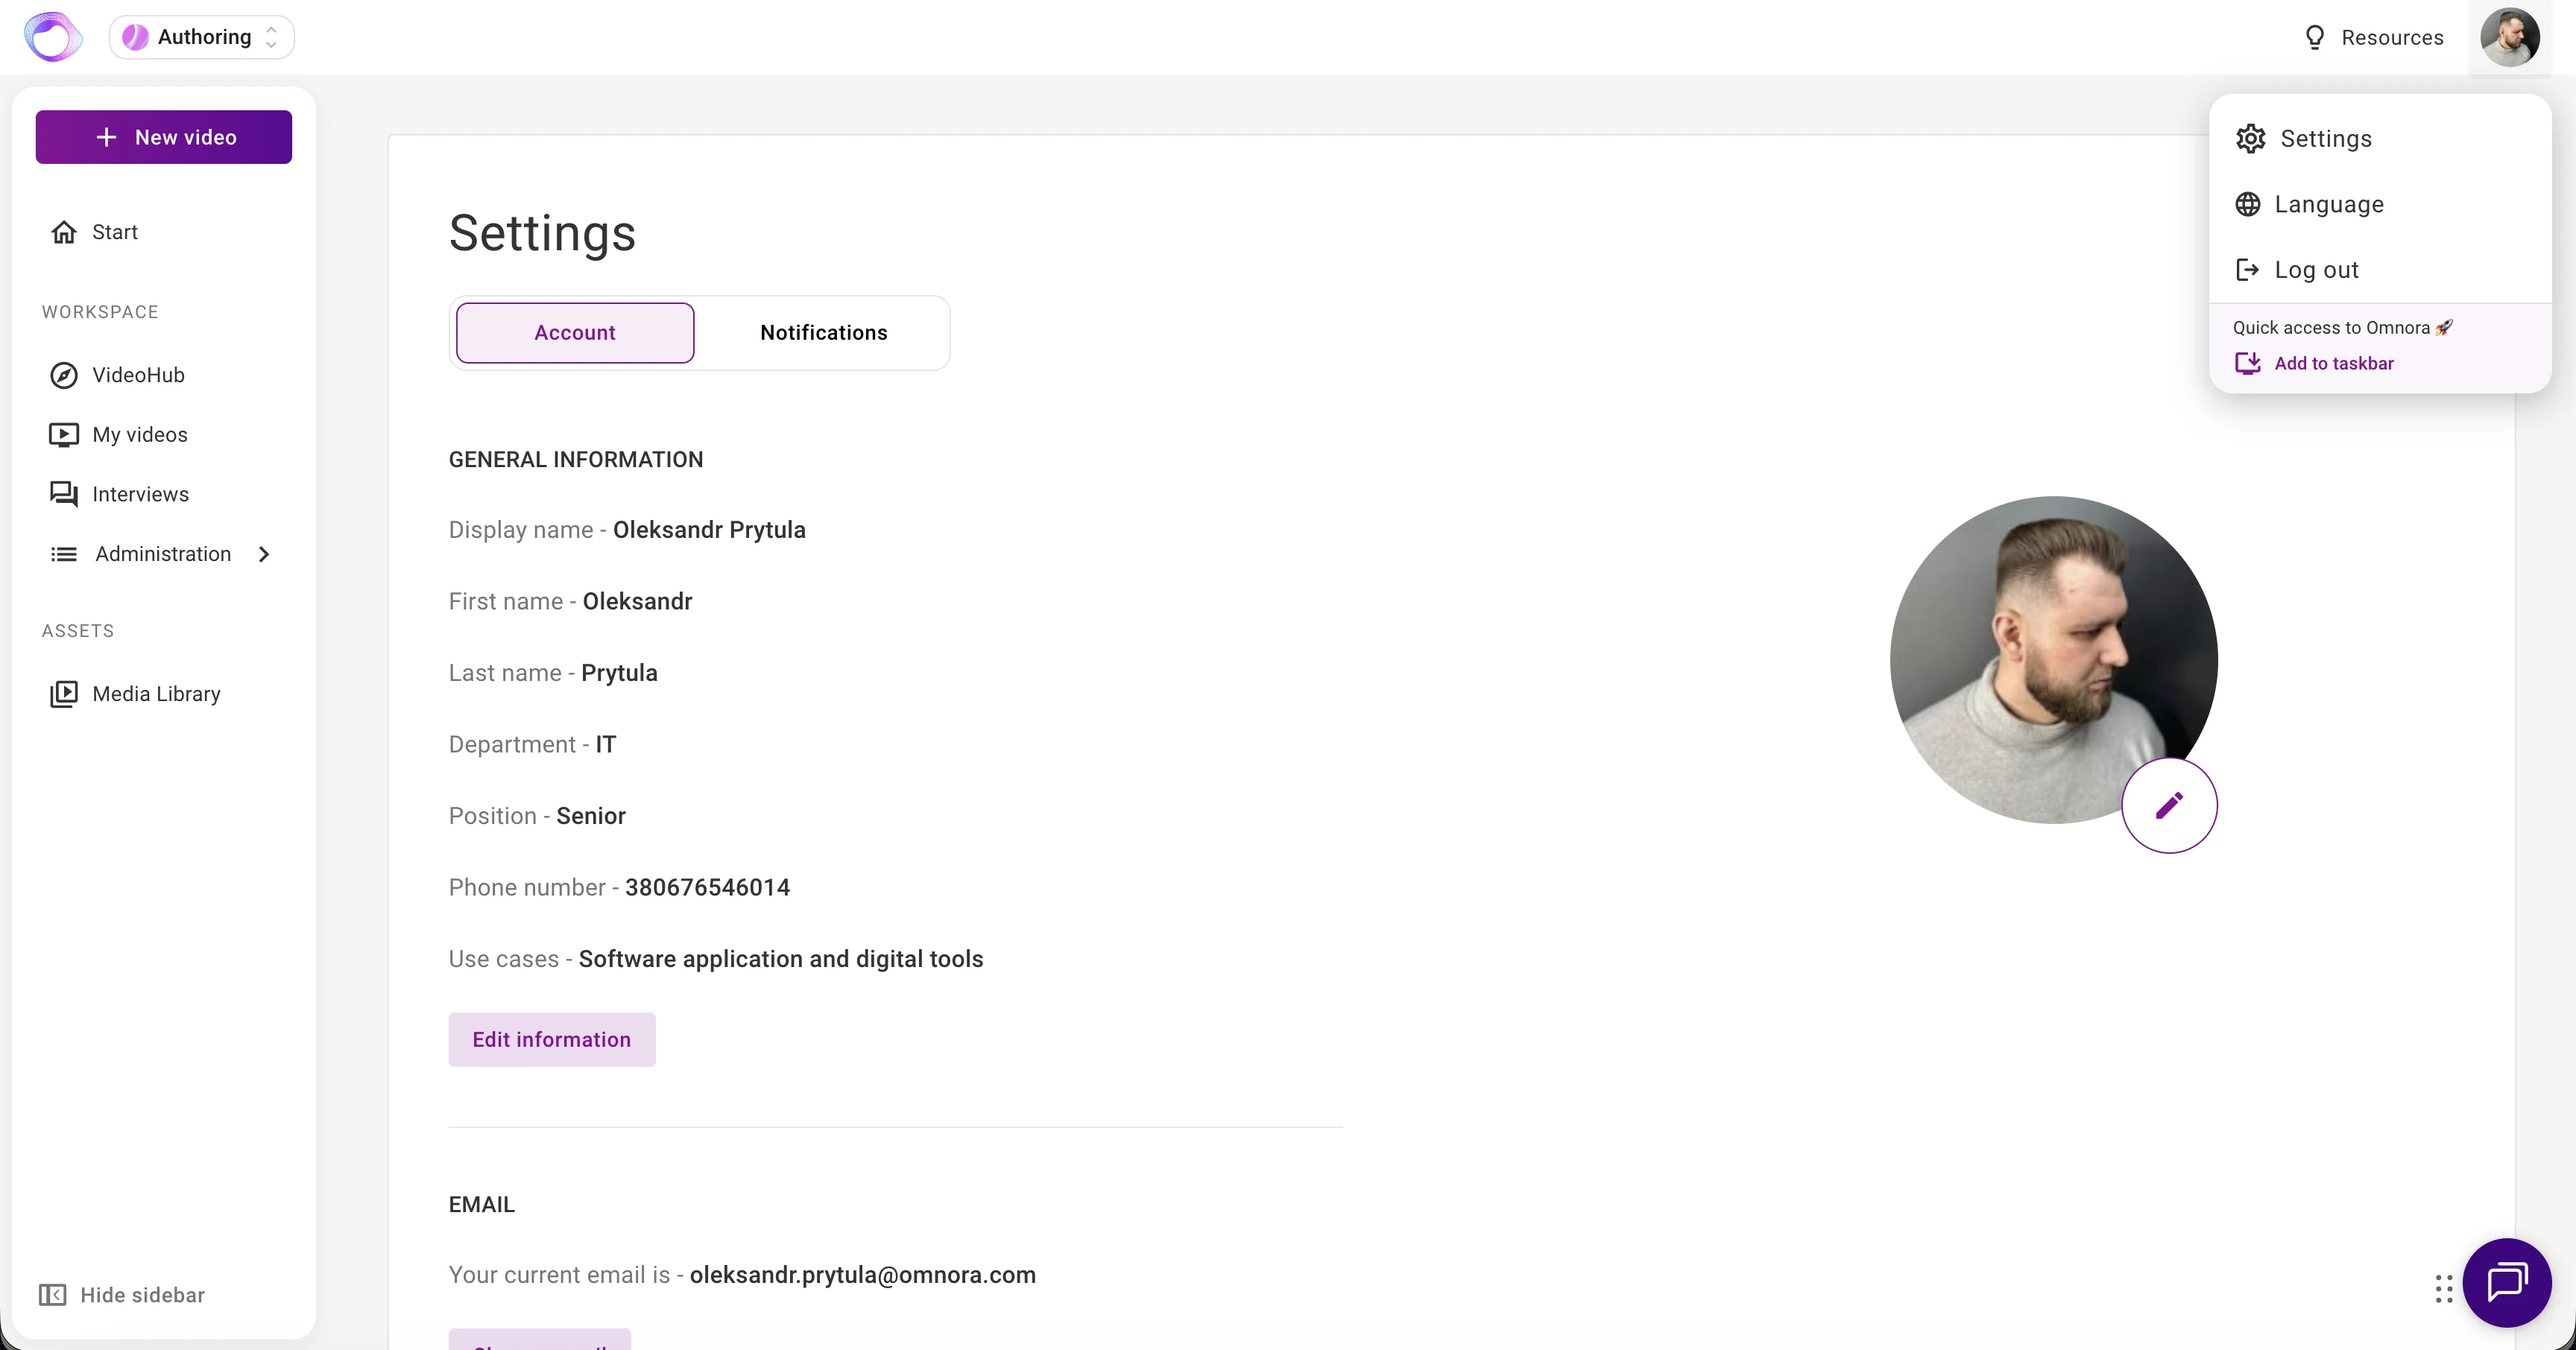
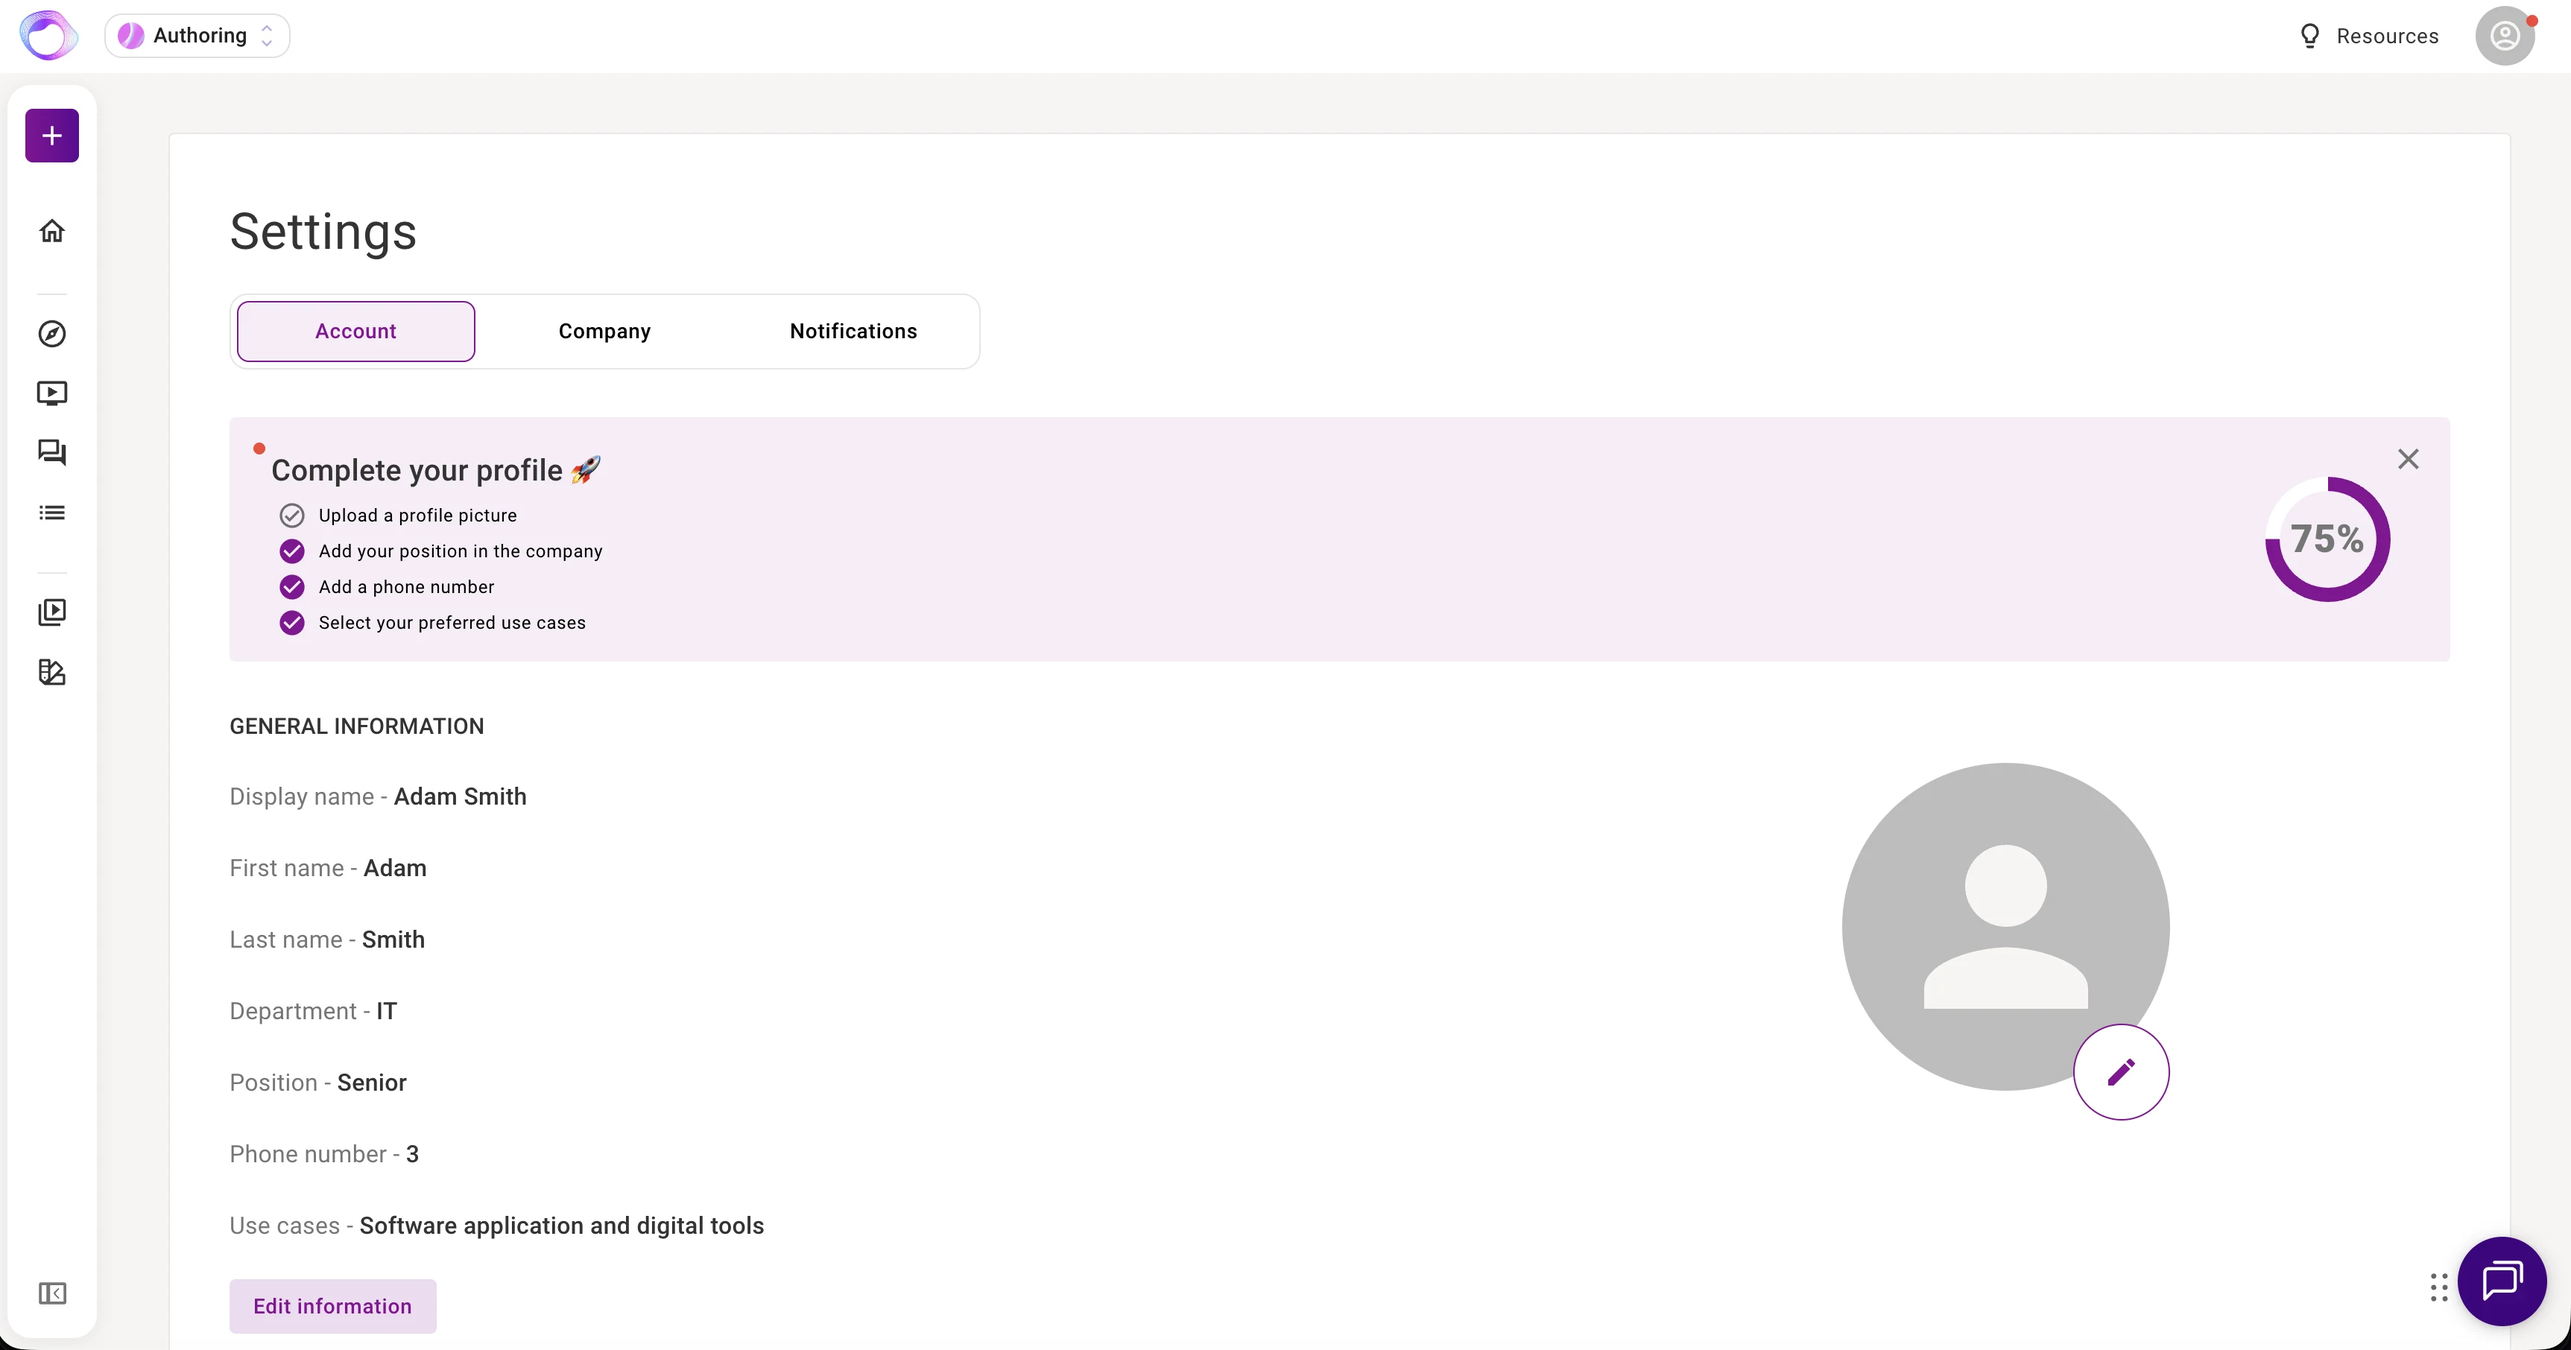
Update Omnora screenshots and refine preview styling

diff --git a/src/i18n/translations.ts b/src/i18n/translations.ts
@@ -39,6 +39,8 @@ const EN_TRANSLATIONS: Translations = {
   [ETranslationKey.ProjectsOmnoraInterviewWelcome]: "Interview welcome screen",
   [ETranslationKey.ProjectsOmnoraAiQuiz]: "AI quiz generation",
   [ETranslationKey.ProjectsOmnoraPlayerControls]: "Player controls settings",
+  [ETranslationKey.ProjectsOmnoraSecurityProfiles]: "Security profiles",
+  [ETranslationKey.ProjectsOmnoraAvatarSelection]: "Avatar selection",
   [ETranslationKey.ProjectsOmnoraLmsSettings]:
     "LMS export settings — xAPI / SCORM",
   [ETranslationKey.NavGithub]: "GitHub",
@@ -239,6 +241,8 @@ const RU_TRANSLATIONS: Translations = {
   [ETranslationKey.ProjectsOmnoraAiQuiz]: "Создание тестов с ИИ",
   [ETranslationKey.ProjectsOmnoraPlayerControls]:
     "Настройки управления плеером",
+  [ETranslationKey.ProjectsOmnoraSecurityProfiles]: "Профили безопасности",
+  [ETranslationKey.ProjectsOmnoraAvatarSelection]: "Выбор аватара",
   [ETranslationKey.ProjectsOmnoraLmsSettings]:
     "Настройки экспорта в LMS — xAPI / SCORM",
   [ETranslationKey.A11yLogo]: "Логотип",
@@ -434,6 +438,8 @@ const SP_TRANSLATIONS: Translations = {
   [ETranslationKey.ProjectsOmnoraAiQuiz]: "Generación de cuestionarios con IA",
   [ETranslationKey.ProjectsOmnoraPlayerControls]:
     "Configuración de los controles del reproductor",
+  [ETranslationKey.ProjectsOmnoraSecurityProfiles]: "Perfiles de seguridad",
+  [ETranslationKey.ProjectsOmnoraAvatarSelection]: "Selección de avatar",
   [ETranslationKey.ProjectsOmnoraLmsSettings]:
     "Exportación a LMS — xAPI / SCORM",
   [ETranslationKey.A11yLogo]: "Logotipo",
@@ -628,6 +634,8 @@ const DE_TRANSLATIONS: Translations = {
   [ETranslationKey.ProjectsOmnoraAiQuiz]: "Quiz-Erstellung mit KI",
   [ETranslationKey.ProjectsOmnoraPlayerControls]:
     "Einstellungen der Player-Steuerung",
+  [ETranslationKey.ProjectsOmnoraSecurityProfiles]: "Sicherheitsprofile",
+  [ETranslationKey.ProjectsOmnoraAvatarSelection]: "Avatar-Auswahl",
   [ETranslationKey.ProjectsOmnoraLmsSettings]:
     "LMS-Exporteinstellungen — xAPI / SCORM",
   [ETranslationKey.A11yLogo]: "Logo",

diff --git a/src/layout/Projects/ScreenshotPreview.tsx b/src/layout/Projects/ScreenshotPreview.tsx
@@ -35,13 +35,13 @@ export function ScreenshotPreview({
           event.currentTarget.close();
         }
       }}
-      className="fixed inset-0 m-auto h-fit max-h-none w-fit max-w-none overflow-visible border-0 bg-transparent p-0 pt-12 text-white backdrop:bg-black/80"
+      className="fixed inset-0 m-auto h-fit max-h-none w-fit max-w-none overflow-hidden rounded-2xl border-0 bg-transparent p-0 text-white backdrop:bg-black/50 sm:rounded-[1.25rem]"
     >
       <button
         type="button"
         onClick={() => dialogRef.current?.close()}
         aria-label={i18n.t(ETranslationKey.ProjectsClosePreview)}
-        className="absolute top-0 right-0 flex h-10 w-10 cursor-pointer items-center justify-center rounded-full border border-white/4 bg-white/2 text-white outline-none transition-colors duration-200 ease-out hover:border-[color:var(--color-accent)] hover:bg-white/8 focus-visible:border-[color:var(--color-accent)] focus-visible:bg-white/8"
+        className="absolute top-3 right-3 z-10 flex h-10 w-10 cursor-pointer items-center justify-center rounded-full border border-white/4 bg-[color:var(--color-bg)] text-white outline-none transition-colors duration-200 ease-out hover:border-[color:var(--color-accent)] hover:bg-[color:color-mix(in_srgb,var(--color-bg),white_8%)] focus-visible:border-[color:var(--color-accent)] focus-visible:bg-[color:color-mix(in_srgb,var(--color-bg),white_8%)]"
       >
         <svg
           aria-hidden="true"
@@ -61,7 +61,7 @@ export function ScreenshotPreview({
         alt={`${projectName} — ${caption}`}
         width={screenshot.width}
         height={screenshot.height}
-        className="block h-auto max-h-[calc(100dvh-6rem)] w-auto max-w-[calc(100vw-2rem)]"
+        className="block h-auto max-h-[calc(100dvh-2rem)] w-auto max-w-[calc(100vw-2rem)] scale-[1.006]"
       />
     </dialog>
   );

diff --git a/src/constants/projects.ts b/src/constants/projects.ts
@@ -20,6 +20,8 @@ import brandKit from "../assets/images/projects/omnora-authoring/brand-kit.webp"
 import interviewWelcome from "../assets/images/projects/omnora-authoring/interview-welcome.webp";
 import aiQuiz from "../assets/images/projects/omnora-authoring/ai-quiz.webp";
 import playerControls from "../assets/images/projects/omnora-authoring/player-controls.webp";
+import securityProfiles from "../assets/images/projects/omnora-authoring/security-profiles.webp";
+import avatarSelection from "../assets/images/projects/omnora-authoring/avatar-selection.webp";
 import type { TimelineDataItem } from "../components/Timeline/TimelineItem";
 import { ETranslationKey } from "../i18n/types";
 import { OMNORA_TECHNOLOGY_TAGS } from "./experience";
@@ -127,7 +129,7 @@ export const PROJECT_TIMELINE_ITEMS: ProjectTimelineItem[] = [
       {
         src: accountSettings,
         captionKey: ETranslationKey.ProjectsOmnoraAccountSettings,
-        width: 3456,
+        width: 3450,
         height: 1812,
       },
       {
@@ -141,6 +143,12 @@ export const PROJECT_TIMELINE_ITEMS: ProjectTimelineItem[] = [
         captionKey: ETranslationKey.ProjectsOmnoraVideoEditor,
         width: 3440,
         height: 1794,
+      },
+      {
+        src: avatarSelection,
+        captionKey: ETranslationKey.ProjectsOmnoraAvatarSelection,
+        width: 3456,
+        height: 1818,
       },
       {
         src: sceneLayouts,
@@ -177,6 +185,12 @@ export const PROJECT_TIMELINE_ITEMS: ProjectTimelineItem[] = [
         captionKey: ETranslationKey.ProjectsOmnoraLmsSettings,
         width: 3456,
         height: 1820,
+      },
+      {
+        src: securityProfiles,
+        captionKey: ETranslationKey.ProjectsOmnoraSecurityProfiles,
+        width: 3452,
+        height: 1816,
       },
     ],
   },

diff --git a/src/enums/i18n.ts b/src/enums/i18n.ts
@@ -95,6 +95,8 @@ export const enum ETranslationKey {
   ProjectsOmnoraLmsSettings = "projects.omnora.lmsSettings",
   ProjectsOmnoraAiQuiz = "projects.omnora.aiQuiz",
   ProjectsOmnoraPlayerControls = "projects.omnora.playerControls",
+  ProjectsOmnoraSecurityProfiles = "projects.omnora.securityProfiles",
+  ProjectsOmnoraAvatarSelection = "projects.omnora.avatarSelection",
 
   ExperienceOmnoraCompanyName = "experience.omnora.companyName",
   ExperienceOmnoraJobTitle = "experience.omnora.jobTitle",
